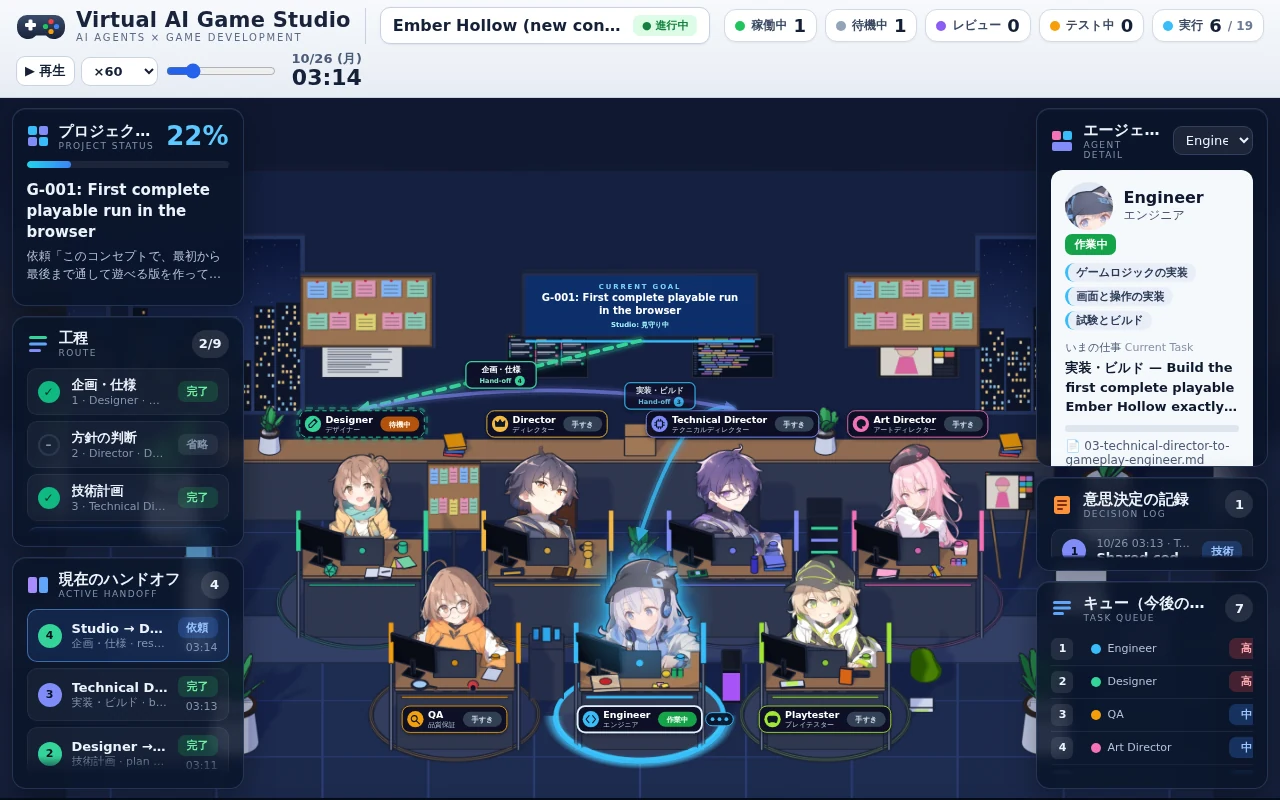
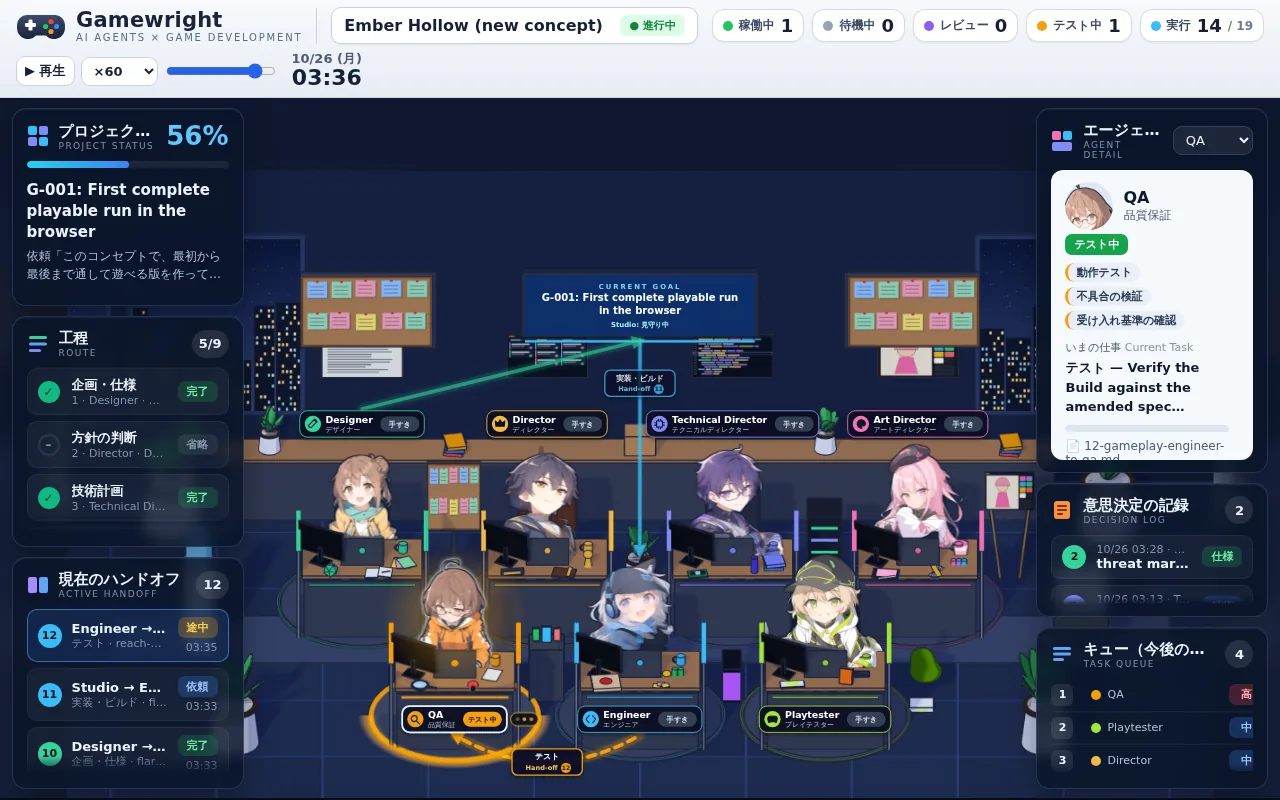
Keep hand-off arrows clear of the characters; white selection outline
Arrow routes are now judged against each character as drawn (its sprite
box) rather than the smaller stand-in, with cubic candidates that run
level above the back row and drop down a gap. Two front-row people are
joined plate to plate under the plates, since their heads sit level
with the back-row desk between them. Front-row arrows end where the
figure begins in its picture, not at the top of a box that leaves room
for a tall cap. Over the whole record, arrow points inside another
character fall from 14.1% to 0%, inside a face from 9.0% to 0%.

The selected character gets a thin white outline instead of a glow in
its Role colour, which looked like the light of work.

diff --git a/scripts/office/office.html b/scripts/office/office.html
@@ -64,7 +64,7 @@
   .scenewrap > img.char { opacity: 0; transition: opacity .35s ease; pointer-events: none; mask-size: 100% 100%; -webkit-mask-size: 100% 100%; }
   .scenewrap > img.char.on { opacity: 1; }
   .aura { transition: opacity .6s ease; }
-  .scenewrap > img.char.sel { filter: drop-shadow(0 0 3px var(--sel)) drop-shadow(0 0 9px var(--sel)); }
+  .scenewrap > img.char.sel { filter: drop-shadow(0 0 1px rgba(255, 255, 255, .95)) drop-shadow(0 0 2px rgba(255, 255, 255, .6)); }
   .side { position: absolute; top: 1.4%; bottom: 1.4%; width: var(--pw); display: flex; flex-direction: column; gap: 10px; z-index: 1; }
   .side.left { left: .9%; }
   .side.right { right: .9%; }
@@ -388,6 +388,29 @@ function buildStage() {
   layer.hub.cg.setAttribute("letter-spacing", 3 * K);
   for (const k of ORDER) drawPod(k);
   for (const k of ORDER) placeTyping(k);
+  // a front-row arrow meets the head where the figure begins (a tall cap leaves room above it in the
+  // sprite's box): measured on the idle picture once it has loaded, then the arrows are redrawn
+  for (const k of ORDER) {
+    const img = pods[k].chars && pods[k].chars.idle, b = L.roles[k].sprite;
+    if (!img || L.roles[k].row !== "front") continue;
+    const meet = () => {
+      pods[k].anchor = { x: pods[k].anchor.x, y: b[1] + figureTop(img) * b[3] - 4 * S };
+      drawnSeq = null;
+      if (current) renderStage(current);
+    };
+    if (img.complete && img.naturalWidth) meet(); else img.addEventListener("load", meet, { once: true });
+  }
+}
+
+// The share of a picture's height above its first solid row.
+function figureTop(img) {
+  const w = 64, h = Math.max(1, Math.round((w * img.naturalHeight) / img.naturalWidth)), c = document.createElement("canvas");
+  c.width = w; c.height = h;
+  const g = c.getContext("2d");
+  g.drawImage(img, 0, 0, w, h);
+  const a = g.getImageData(0, 0, w, h).data;
+  for (let y = 0; y < h; y++) for (let x = 0; x < w; x++) if (a[(y * w + x) * 4 + 3] > 128) return y / h;
+  return 0;
 }
 
 function drawPod(k) {
@@ -467,35 +490,57 @@ function anchorOf(who) {
 // each desk with its screens, from the monitors' tops to the desk front (measured on the render)
 let desks = null;
 const deskBoxes = () => desks || (desks = ORDER.map((k) => { const p = L.roles[k]; return [p.ring[0] - p.ring[2] * 0.8, p.desk[1] - 98 * S, p.ring[2] * 1.6, 130 * S]; }));
+// A point on a Bézier curve given by its control points (quadratic or cubic), by de Casteljau.
+function bez(pts, t) {
+  let q = pts;
+  while (q.length > 1) q = q.slice(1).map((p, i) => ({ x: q[i].x + (p.x - q[i].x) * t, y: q[i].y + (p.y - q[i].y) * t }));
+  return q[0];
+}
 function curve(from, to) {
   const a = anchorOf(from), b = anchorOf(to), span = Math.hypot(b.x - a.x, b.y - a.y) || 1, mx = (a.x + b.x) / 2, my = (a.y + b.y) / 2;
-  // what an arrow should not cross: faces most, then the Goal screen, then bodies (it passes behind them)
-  const others = ORDER.filter((k) => k !== from && k !== to).map((k) => L.roles[k].body);
-  const faces = others.map(([bx, by, bw, bh]) => [bx + bw * 0.15, by, bw * 0.7, bh * 0.55]);
+  // what an arrow should not cross: faces most, then desks and the Goal screen, then bodies (it passes
+  // behind them), each as drawn: the character's sprite, not the smaller stand-in
+  const others = ORDER.filter((k) => k !== from && k !== to).map((k) => L.roles[k].sprite || L.roles[k].body);
+  const faces = others.map(([bx, by, bw, bh]) => [bx + bw * 0.15, by, bw * 0.7, bh * 0.5]);
   const g = L.hub, screen = [g.center[0] - g.rx, g.top[1], 2 * g.rx, g.floor[1] - g.top[1]];
   const inside = (x, y, [bx, by, bw, bh]) => x > bx && x < bx + bw && y > by && y < by + bh;
   const ts = Array.from({ length: 19 }, (_, i) => (i + 1) / 20);
-  const cost = (c) => ts.reduce((n, t) => {
-    const u = 1 - t, x = u * u * a.x + 2 * u * t * c.x + t * t * b.x, y = u * u * a.y + 2 * u * t * c.y + t * t * b.y;
+  const cost = (pts) => ts.reduce((n, t) => {
+    const { x, y } = bez(pts, t);
     return n + 3 * faces.filter((f) => inside(x, y, f)).length + 2 * inside(x, y, screen) + others.filter((o) => inside(x, y, o)).length
       + 2 * deskBoxes().filter((d) => inside(x, y, d)).length;
   }, 0);
   // between two people an arch (over or under); from the Goal screen a drop, bent aside if need be
-  const cands = ROLES[from] && ROLES[to] ? [0.1, 0.16, 0.3, 0.45, -0.12, -0.22, 0.04].map((lift) => ({ x: mx, y: Math.min(a.y, b.y) - span * lift }))
+  const mid = ROLES[from] && ROLES[to] ? [0.1, 0.16, 0.3, 0.45, -0.12, -0.22, -0.35, -0.5, 0.04].map((lift) => ({ x: mx, y: Math.min(a.y, b.y) - span * lift }))
     : [0, 0.2, -0.2, 0.35, -0.35].map((off) => ({ x: mx + span * off, y: my }));
-  // a front-row person sits in a gap of the back row: an arrow can drop to (or rise from) the head
-  // straight down that gap instead of cutting across a desk
+  const cands = mid.map((c) => [a, c, b]);
+  // a front-row person sits in a gap of the back row: an arrow can run level above the back row and
+  // drop to (or rise from) the head straight down that gap, clear of faces and desks
   const high = Math.min(a.y, b.y) - span * 0.12;
-  if (L.roles[to] && L.roles[to].row === "front") cands.push({ x: b.x, y: high });
-  if (L.roles[from] && L.roles[from].row === "front") cands.push({ x: a.x, y: high });
-  let c = null, best = Infinity;
-  for (const cand of cands) { const k = cost(cand); if (k < best) { c = cand; best = k; } }
-  return { s: a, c, e: b, d: `M${a.x.toFixed(1)} ${a.y.toFixed(1)} Q${c.x.toFixed(1)} ${c.y.toFixed(1)} ${b.x.toFixed(1)} ${b.y.toFixed(1)}` };
+  for (const [end, other, last] of [[b, a, true], [a, b, false]]) {
+    const who = last ? to : from;
+    if (!(L.roles[who] && L.roles[who].row === "front")) continue;
+    cands.push(last ? [a, { x: b.x, y: high }, b] : [a, { x: a.x, y: high }, b]);
+    const level = Math.min(other.y, end.y - span * 0.3), corner = { x: end.x, y: level };
+    cands.push(last ? [a, { x: a.x + (end.x - a.x) * 0.5, y: level }, corner, b] : [a, corner, { x: b.x + (end.x - b.x) * 0.5, y: level }, b]);
+  }
+  let pts = null, best = Infinity;
+  for (const cand of cands) { const k = cost(cand); if (k < best) { pts = cand; best = k; } }
+  // two people in the front row: their heads are level with the back-row desk between them, so
+  // every path between the heads crosses that desk or the person behind it; join their name plates
+  // instead, dipping onto the floor below them
+  if (L.roles[from] && L.roles[to] && L.roles[from].row === "front" && L.roles[to].row === "front") {
+    const under = (k) => { const [px, py, pw, ph] = pods[k].plateBox; return { x: px + pw / 2, y: py + ph + 3 * S }; };
+    const u = under(from), v = under(to);
+    pts = [u, { x: (u.x + v.x) / 2, y: Math.max(u.y, v.y) + 60 * S }, v];
+  }
+  const f = (p) => `${p.x.toFixed(1)} ${p.y.toFixed(1)}`;
+  return { s: a, e: b, pts, d: `M${f(pts[0])} ${pts.length === 4 ? "C" : "Q"}${pts.slice(1).map(f).join(" ")}` };
 }
 function badgeSpot(c, w, h, placed, to) {
   const len = Math.hypot(c.e.x - c.s.x, c.e.y - c.s.y) || 1, px = -(c.e.y - c.s.y) / len, py = (c.e.x - c.s.x) / len, cands = [];
   for (const t of [0.5, 0.4, 0.6, 0.3, 0.7, 0.2, 0.8]) for (const off of [0, 22, -22, 44, -44, 70, -70]) {
-    const u = 1 - t, x = u * u * c.s.x + 2 * u * t * c.c.x + t * t * c.e.x + px * off * K, y = u * u * c.s.y + 2 * u * t * c.c.y + t * t * c.e.y + py * off * K;
+    const q = bez(c.pts, t), x = q.x + px * off * K, y = q.y + py * off * K;
     cands.push([x - w / 2, y - h / 2]);
   }
   // when the arrow runs where nothing fits: beside the receiver's plate, or under the Goal screen
@@ -673,7 +718,7 @@ function renderDetail(s) {
   const k = selected, r = ROLES[k], a = s.agents[k];
   for (const [kk, p] of Object.entries(pods)) {
     if (p.g) p.g.classList.toggle("picked", kk === k);
-    for (const img of Object.values(p.chars || {})) { img.classList.toggle("sel", kk === k); img.style.setProperty("--sel", ROLES[kk].color); }
+    for (const img of Object.values(p.chars || {})) img.classList.toggle("sel", kk === k);
   }
   if (k !== renderDetail.shown) document.querySelector(".card").scrollTop = 0;  // a new agent starts at its face
   renderDetail.shown = k;
